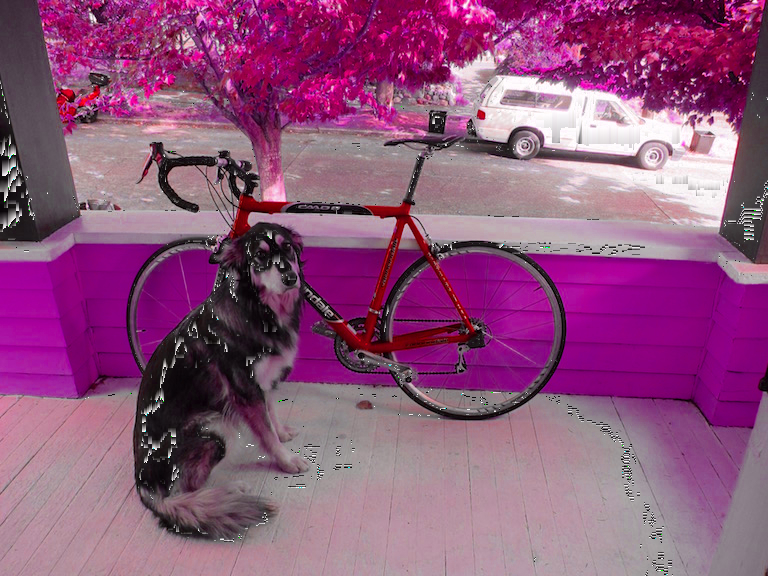
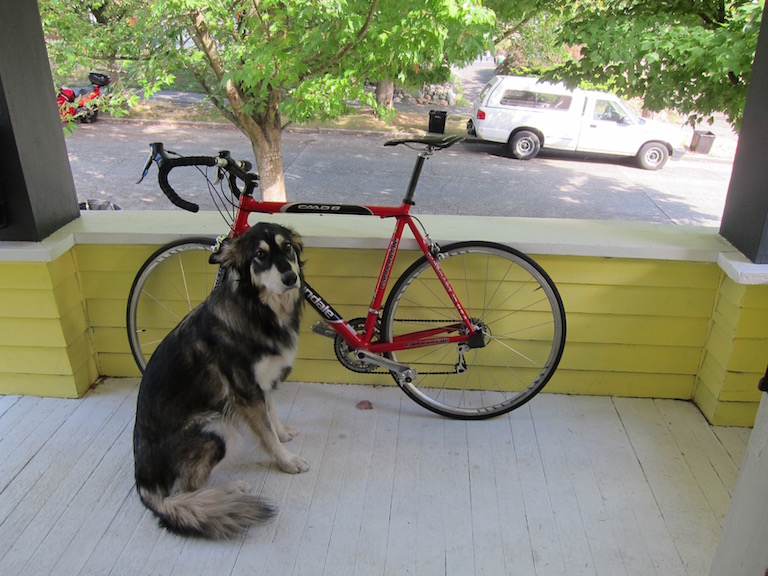
Add files via upload

diff --git a/esercitazione1-23-24/src/process_image.cpp b/esercitazione1-23-24/src/process_image.cpp
@@ -120,29 +120,33 @@ void rgb_to_hsv(Image &im) {
             V=max(R,G,B);
             m=min(R,G,B);
             C=V-m;
+
             if(V!=0)
                 S=C/V;
             else
                 S=0;
+
             if(V==R)
                 H=(G-B)/C;
             else if(V==G)
                 H=((B-R)/C)+2;
             else if(V==B)
                 H=((R-G)/C)+4;
-            //else    
-               // H=NULL;
-            if(H!=NULL && H<0)
+
+            if(H<0)
                 H=(H/6)+1;
-            else if(H!=NULL)
+            else if(H>=0)
                 H=(H/6);
-            //while(H<0)
-               // H++;
+            else 
+                H=0;
             im(i,j,0)=H;
             im(i,j,1)=S;
             im(i,j,2)=V;
+            //
+                //printf("valore pixel H=%lf\n",im(i,j,0));
         }
     }
+    
 }
 
 // HW0 #7
@@ -159,34 +163,35 @@ void hsv_to_rgb(Image &im) {
             S=im(i,j,1);
             V=im(i,j,2);
             C = V * S;
-            X = C * (1 - abs(fmod(6*H,2.0) - 1));
+            X = C * (1 - fabs(fmod(6*H,2) - 1));
             m = V - C;
-            if(H>=0 && H<1/6){
+            //eseguire divisioni in virgola mobile non in interi altrimenti non è precisa la suddivisione
+            if(H>=0 && H<1.0/6.0){
                 R=C;
                 G=X;
                 B=0;
             }
-            else if(H>=1/6 && H<2/6){
+            else if(H>=1.0/6.0 && H<2.0/6.0){
                 R=X;
                 G=C;
                 B=0;
             }
-            else if(H>=2/6 && H<3/6){
+            else if(H>=2.0/6.0 && H<3.0/6.0){
                 R=0;
                 G=C;
                 B=X;
             }
-            else if(H>=3/6 && H<4/6){
+            else if(H>=3.0/6.0 && H<4.0/6.0){
                 R=0;
                 G=X;
                 B=C;
             }
-            else if(H>=4/6 && H<5/6){
+            else if(H>=4.0/6.0 && H<5.0/6.0){
                 R=X;
                 G=0;
                 B=C;
             }
-            else if(H>=5/6 && H<1){
+            else if(H>=5.0/6.0 && H<1){
                 R=C;
                 G=0;
                 B=X;

diff --git a/esercitazione1-23-24/src/test/test0.cpp b/esercitazione1-23-24/src/test/test0.cpp
@@ -89,6 +89,7 @@ void test_rgb_to_hsv()
   rgb_to_hsv(im);
   Image hsv = load_image("data/dog.hsv.png");
   TEST(same_image(im, hsv));
+  printf("valore im=%lf valore hsv=%lf\n",im(456,66,0),hsv(456,66,0));
   im.save_image("output/rgb_to_hsv_result.png");
   }
 
@@ -97,8 +98,6 @@ void test_hsv_to_rgb()
   Image im = load_image("data/dog.jpg");
   Image c = im;
   rgb_to_hsv(im);
-  scale_image(im, 1, 2);
-  clamp_image(im);
   hsv_to_rgb(im);
   TEST(same_image(im, c));
   im.save_image("output/hsv_to_rgb_result.png");

diff --git a/esercitazione1-23-24/src/access_image.cpp b/esercitazione1-23-24/src/access_image.cpp
@@ -57,5 +57,5 @@ void copy_image(Image &to, const Image &from) {
     //NOT_IMPLEMENTED();
     to.w=from.w;
     to.h=from.h;
-    memcpy(to.data,from.data,sizeof(from.data));
+    memcpy(to.data,from.data,from.w * from.h * from.c * sizeof(float));
 }
